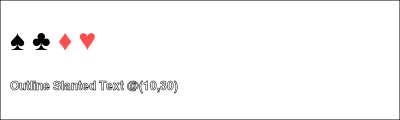
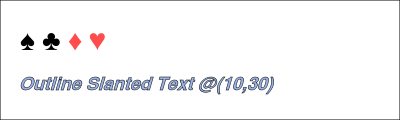
more work on README

Changed region(s): [[0.03, 0.625, 0.69, 0.8], [0.0, 0.275, 0.27, 0.425]]

diff --git a/README.md b/README.md
@@ -13,10 +13,15 @@ my $pdf = PDF::Lite.new;
 my $page = $pdf.add-page;
 $page.MediaBox = [0, 0, 200, 100];
 
-$page.text: {
-    .TextMove = [10, 10];
-    .font = .core-font( :family<Helvetica>, :weight<bold>, :style<italic> );
-    .say: 'Hello, world!';
+$page.graphics: {
+    my $text-block = .text: {
+        .font = .core-font( :family<Helvetica>, :weight<bold>, :style<italic> );
+        .TextMove = [10, 10];
+        .say: 'Hello, world';
+    }
+
+    my $img = .load-image: "t/images/lightbulb.gif";
+    .do($img, 20 + $text-block.width, 10);
 }
 
 my $info = $pdf.Info = {};
@@ -30,6 +35,9 @@ $pdf.save-as: "examples/hello-world.pdf";
 #### Text
 
 `.say` and `.print` are simple convenience methods for displaying simple blocks of text with optional line-wrapping, alignment and kerning.
+
+These methods return a text-block object which can be used to
+determine the actual width and height of the displayed text block;
 
 ```
 use PDF::Lite;
@@ -46,7 +54,8 @@ $page.text: -> $txt {
             
     $txt.font = $font, 12;
     # output a text box with left, top corner at (20, 100)
-    $txt.say( $para, :width(200), :height(150), :position[ :left(20), :top(100)] );
+    my $text-block = $txt.say( $para, :width(200), :position[ :left(20), :top(100)] );
+    say "text height: {$text-block.height}";
 
     # output kerned paragraph, flow from right to left, right, top edge at (450, 100)
     $txt.say( $para, :width(200), :height(150), :align<right>, :kern, :position[450, 100] );
@@ -106,11 +115,10 @@ $page.MediaBox = [0, 0, 400, 120];
 $page.graphics: {
 
     $page.text: {
-	.TextMove = [10, 70];
+	.TextMove = [20, 70];
 	.font = [ .core-font('ZapfDingbats'), 24];
 	.WordSpacing = 16;
-	my $nbsp = "\c[NO-BREAK SPACE]";
-	.print("♠ ♣$nbsp");
+	.print("♠ ♣\c[NO-BREAK SPACE]");
 	.FillColor = :DeviceRGB[ 1, .3, .3];  # reddish
 	.say("♦ ♥");
     }
@@ -121,11 +129,11 @@ $page.graphics: {
 
     $page.text: {
 	 use PDF::Content::Ops :TextMode;
-	.font = ( $header-font, 12);
-	.TextRender = TextMode::OutlineText;
+	.font = ( $header-font, 18);
+	.TextRender = TextMode::FillOutlineText;
 	.LineWidth = .5;
-        .text-transform( :skew[0, 12] );
-	.text-transform( :translate[10, 30] );
+        .text-transform( :skew[0, -6], :translate[10, 30] );
+	.FillColor = :DeviceRGB[ .6, .7, .9];
 	.ShowText('Outline Slanted Text @(10,30)');
     }
 }
@@ -281,8 +289,7 @@ For a full list of operators, please see PDF::Content::Ops.
 
 ## Graphics State
 
-A number of variables are maintained that describe the graphics state. In many cases
-these may be set directly:
+A number of variables are maintained that describe the graphics state. In many cases these may be set directly:
 
 ```
 my $page = (require PDF::Lite).new.add-page;
@@ -294,18 +301,16 @@ $page.graphics: {
     my $face = .core-font( :family<Helvetica>, :weight<bold>, :style<italic> );
     .font = [ $face, 12 ];
     .TextLeading = 12; # new-line advances 12 points
-    .TextMove = [10, 20];
-    .say("Sample Text");
+    .say("Sample Text", :position[10, 20]);
     # 'say' has updated the text position to the next line
-    dd .TextMove;
     .Restore; # restore previous graphics state
-
+    say .CharSpacing; # restored to 0
 }
 ```
 
 ## See also
 
-- [PDF](https://github.com/p6-pdf/PDF-p6) is based on PDF and has all of it methods available. This includes:
+- PDF::Lites is based on [PDF](https://github.com/p6-pdf/PDF-p6) and has all of it methods available. This includes:
 
     - `open` to read an existing PDF or JSON file
     - `save-as` to save to PDF or JSON
